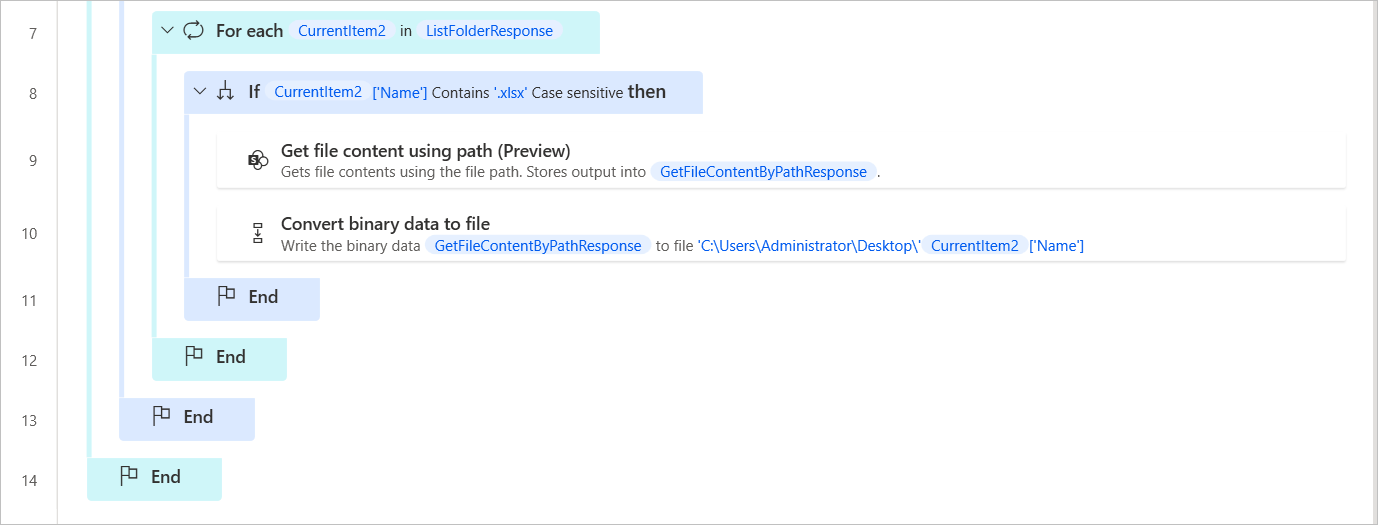
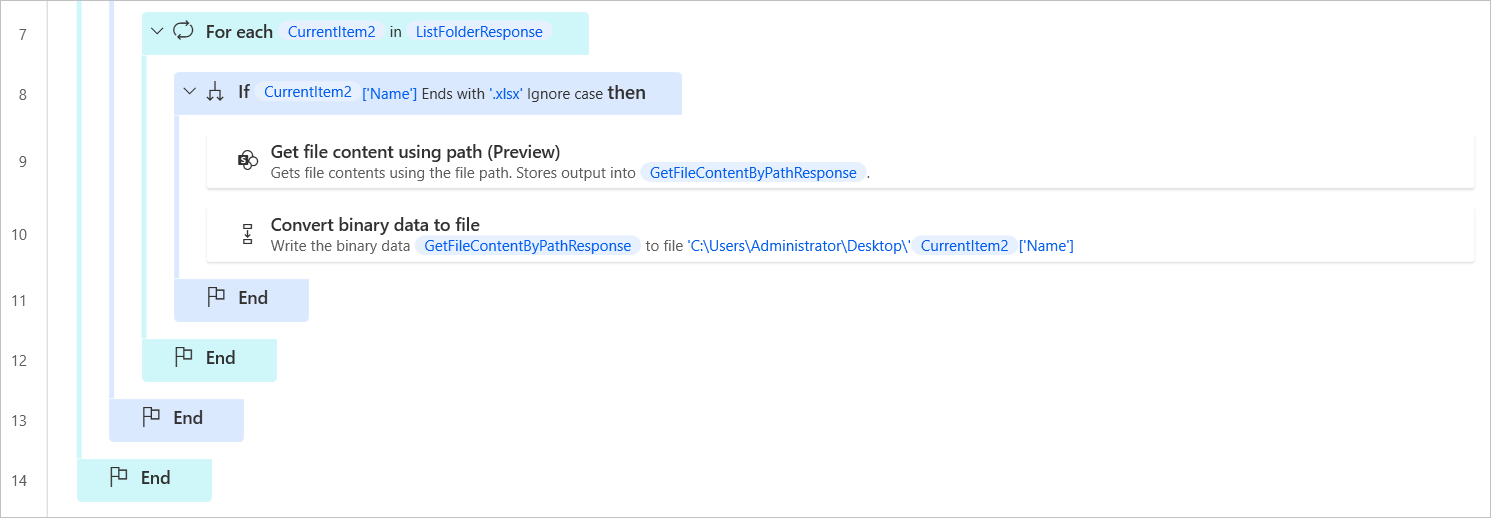
Updates in SharePoint actions reference

Changed region(s): [[0.0, 0.0, 0.7801, 0.9884], [0.9985, 0.0, 1.0, 1.0]]

diff --git a/articles/desktop-flows/actions-reference/sharepoint.md b/articles/desktop-flows/actions-reference/sharepoint.md
@@ -100,7 +100,7 @@ If you want to download files of specific subfolders, modify the previously depl
 
 ![Screenshot of a conditional that checks the current item's name.](media\sharepoint\if-action-item-name.png)
 
-If you want to download only files of a specific type, add a conditional before retrieving the file contents to check whether the file name contains a particular extension.
+If you want to download only files of a specific type, add a conditional before retrieving the file contents to check whether the file name ends with a particular extension.
 
 ![Screenshot of a conditional that checks the current item's file type.](media\sharepoint\if-action-item-type.png)
 
